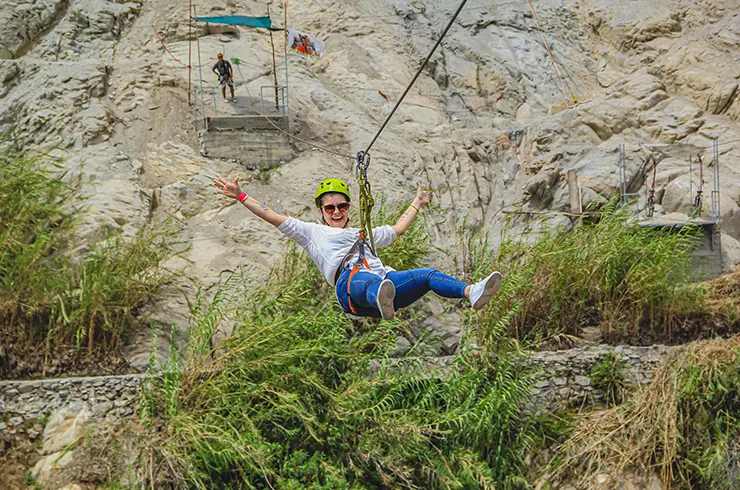
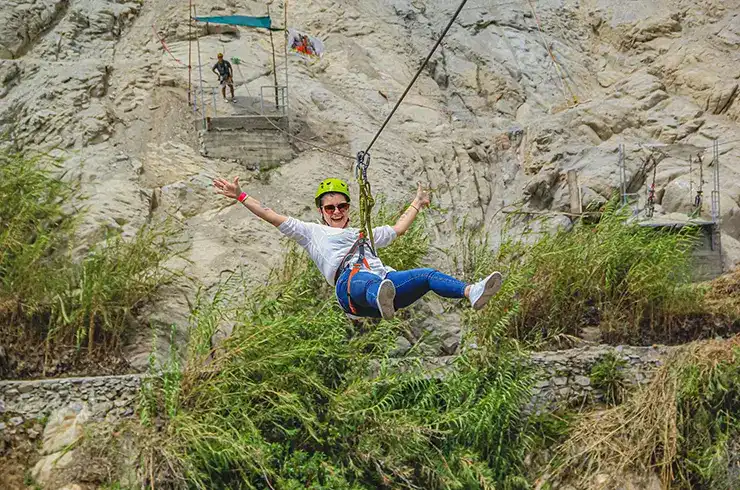
commit

Changed region(s): [[0.4662, 0.5204, 0.5284, 0.5816], [0.4662, 0.4592, 0.4973, 0.4898], [0.4351, 0.3673, 0.4662, 0.398]]

diff --git a/wwr/about.html b/wwr/about.html
@@ -76,11 +76,11 @@
                     <figcaption>Zip Line</figcaption>
                 </figure>
                 <figure>
-                    <img src="images/adventure-3.webp" alt="Canotaje">
+                    <img src="images/adventure-3.webp" alt="Canoeing">
                     <figcaption>Canoeing</figcaption>
                 </figure>
                 <figure>
-                    <img src="images/adventure-4.webp" alt="Rapel">
+                    <img src="images/adventure-4.webp" alt="Rappel">
                     <figcaption>Rappel</figcaption>
                 </figure>
                 <figure>
